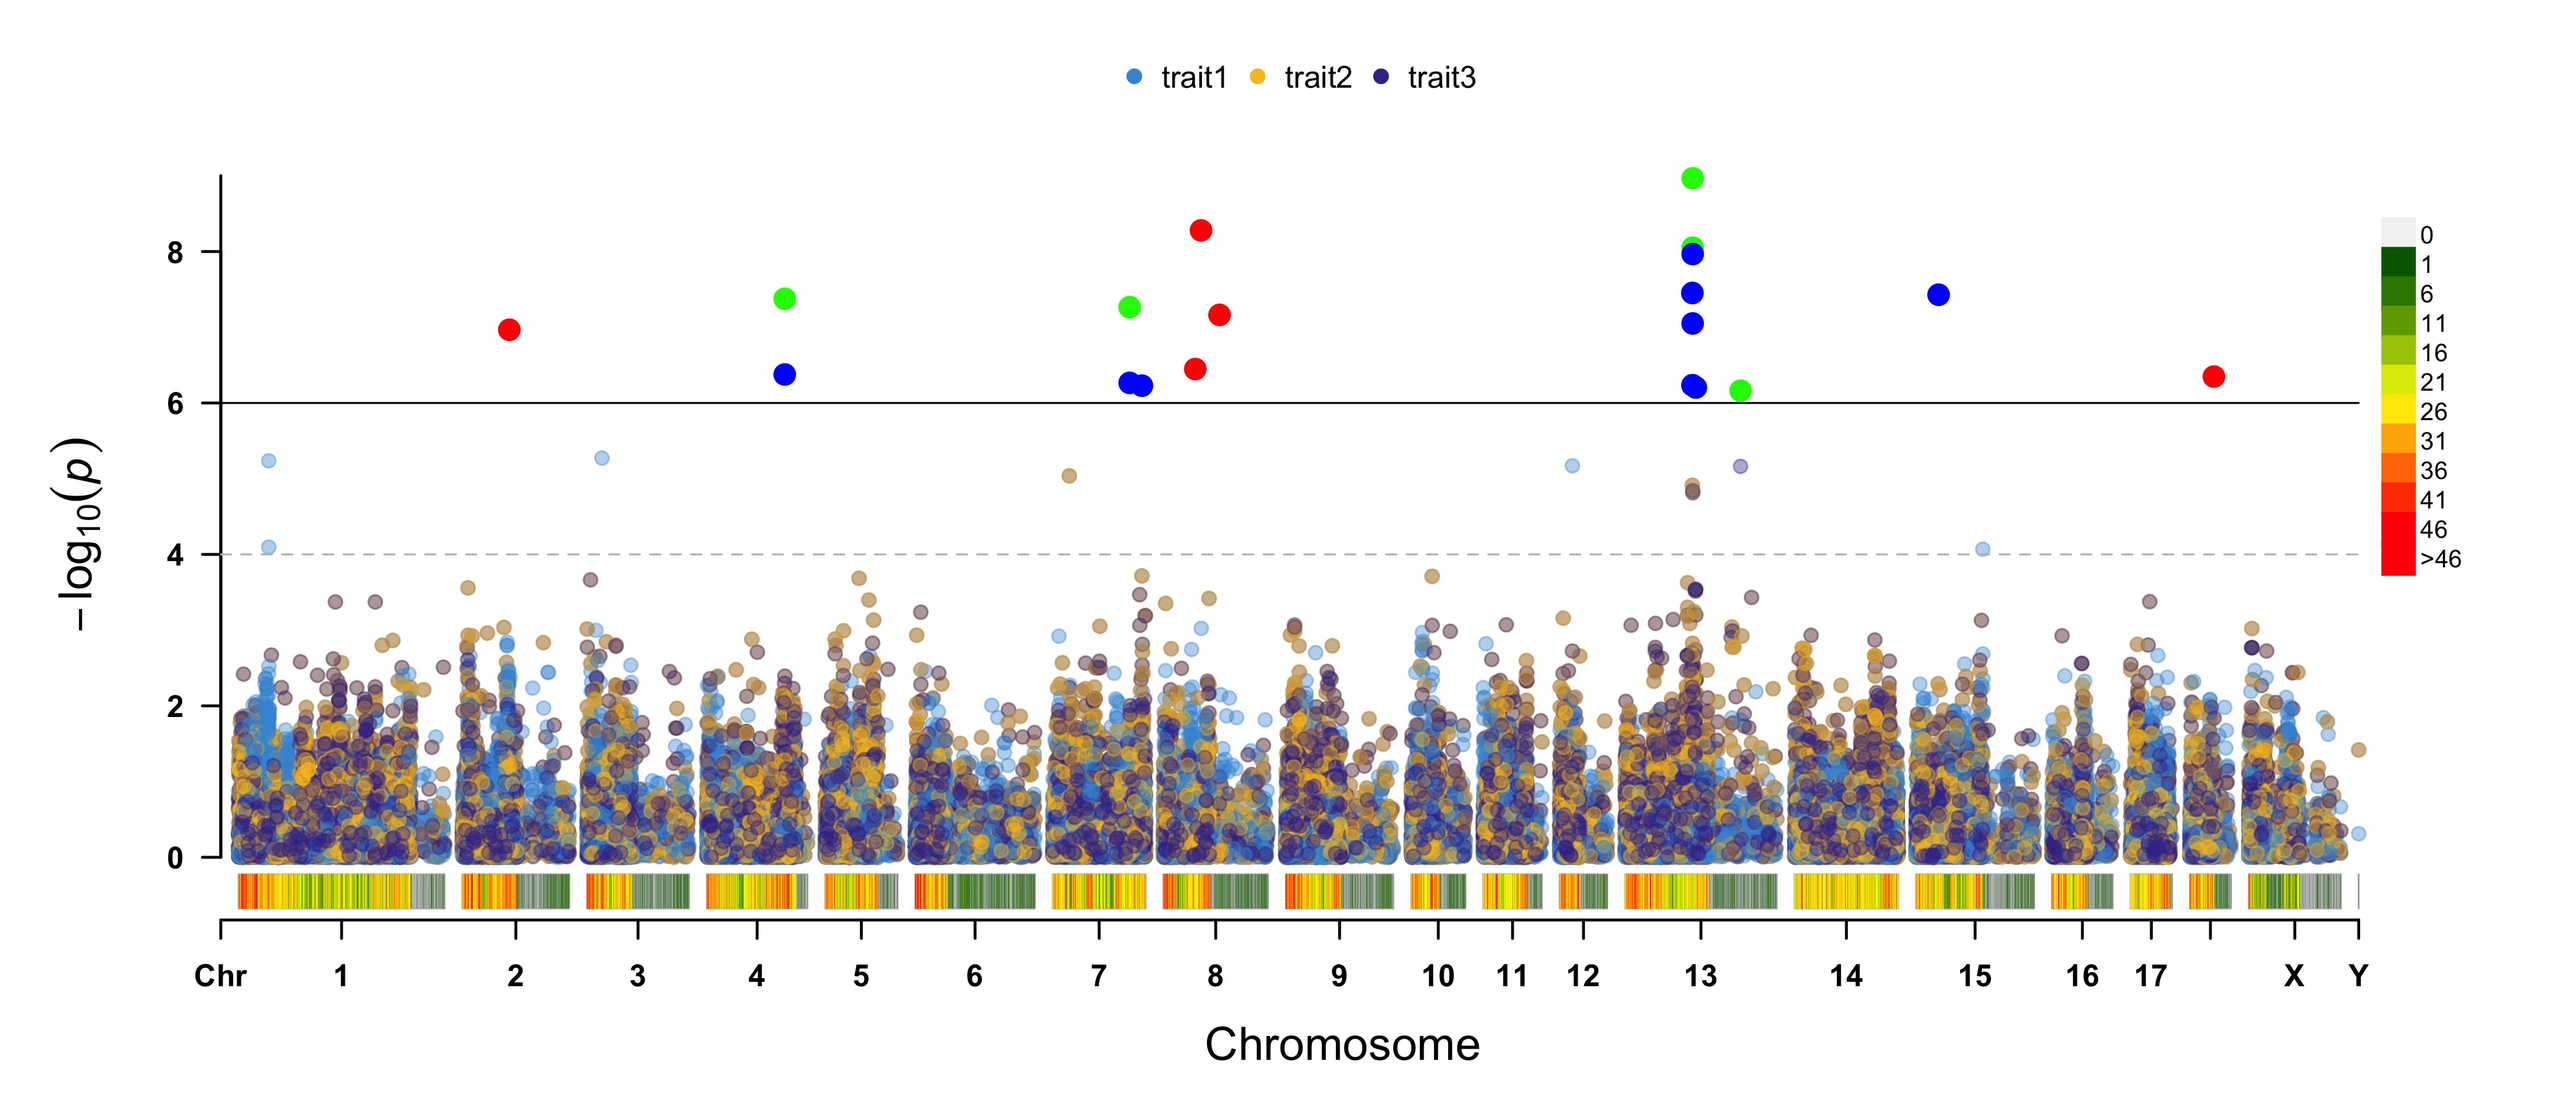
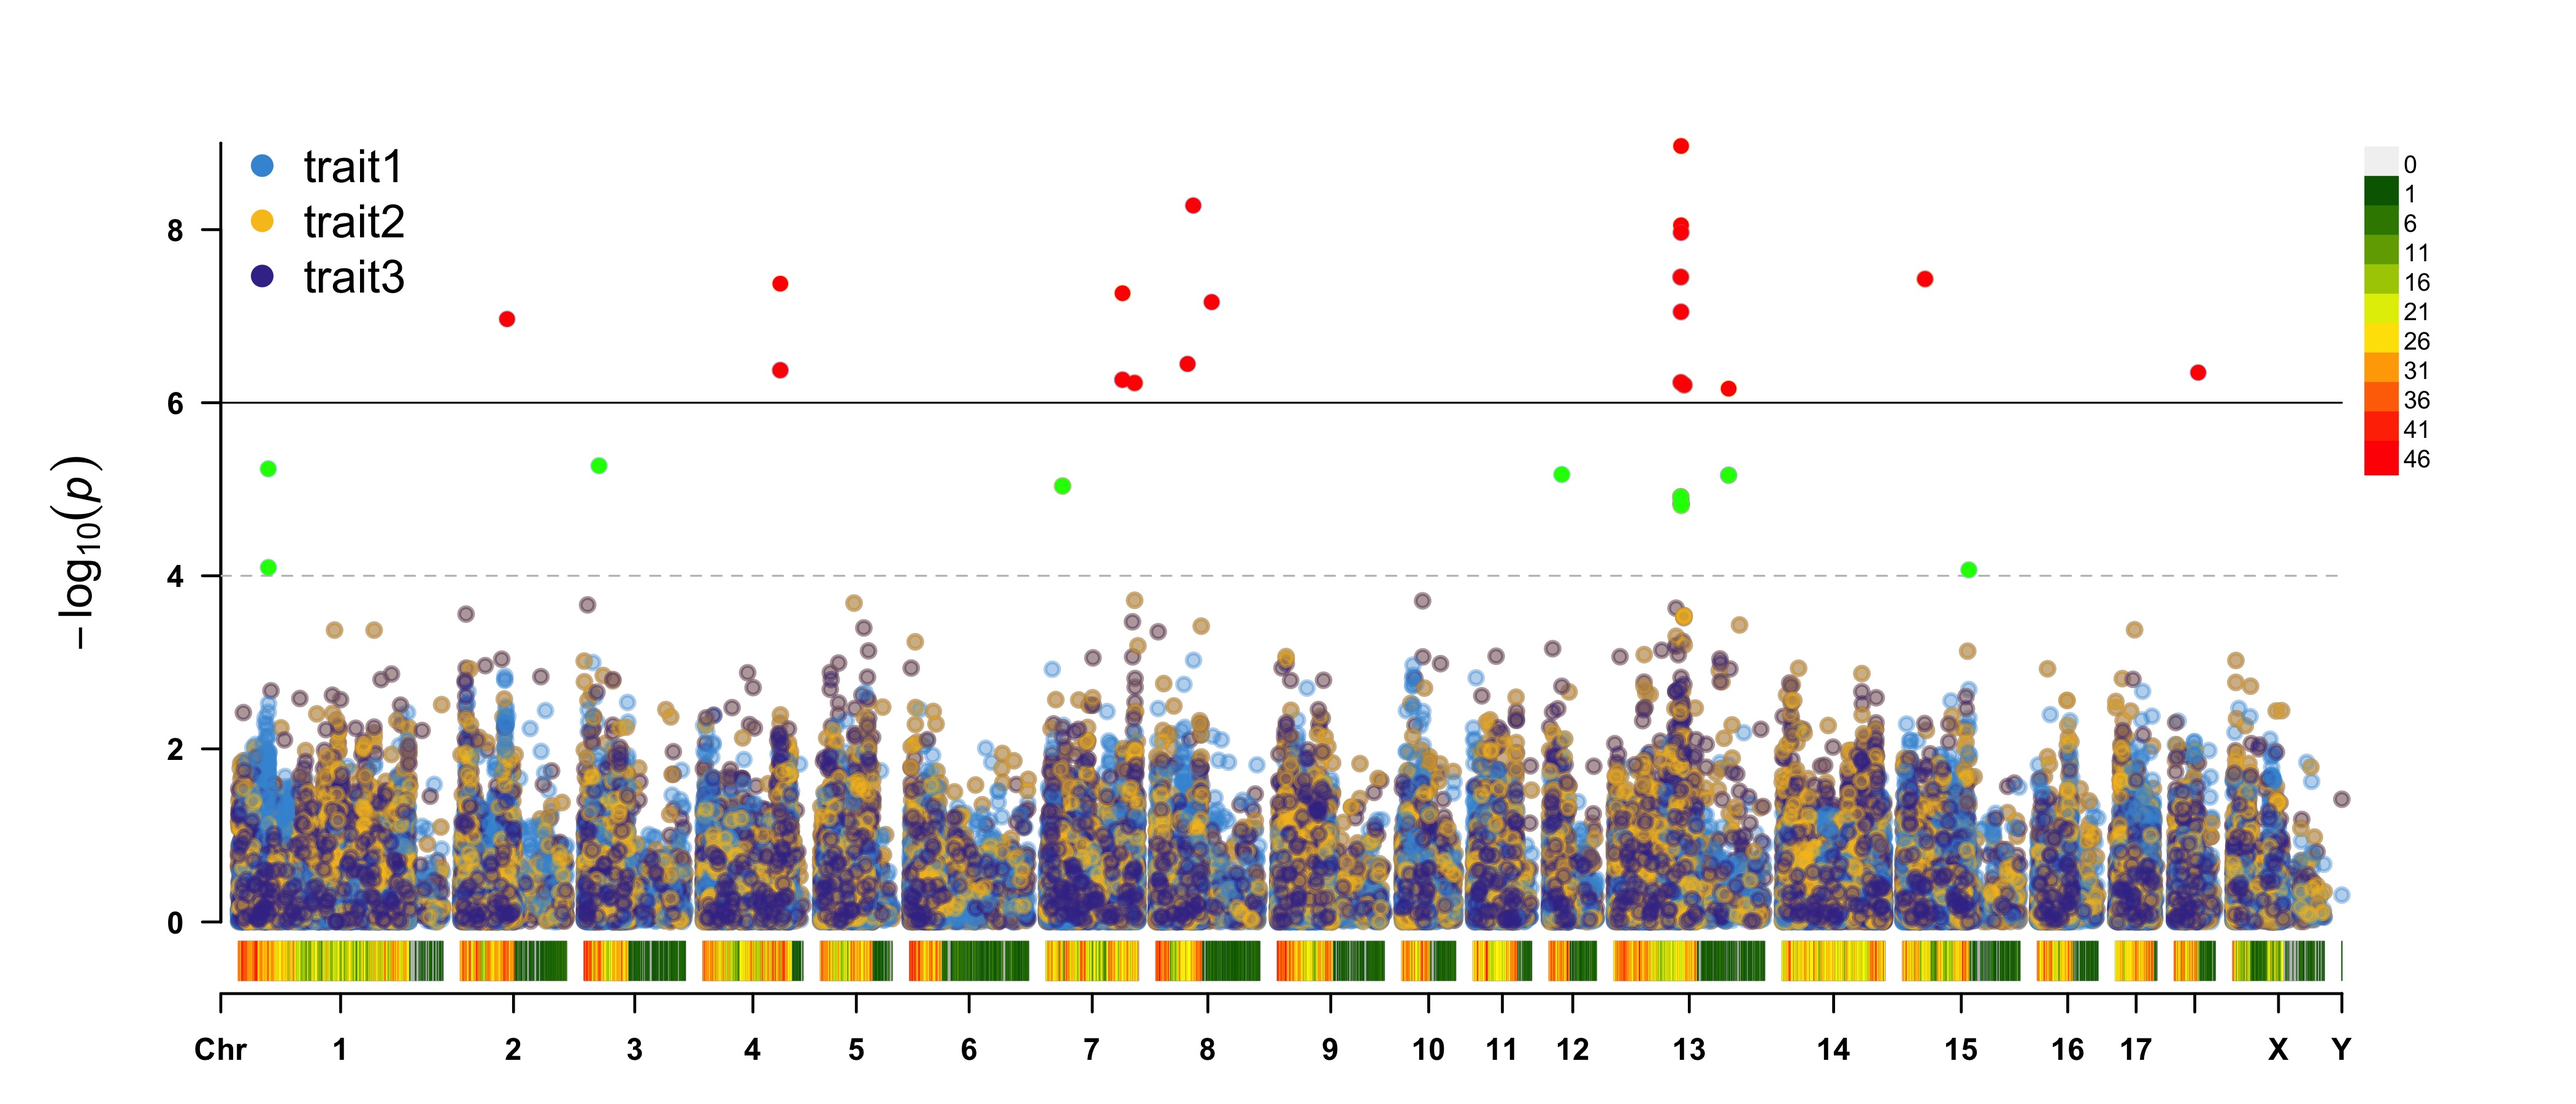
v4.3.0

diff --git a/README.md b/README.md
@@ -1,5 +1,5 @@
 # CMplot 
-[![GitHub issues](https://img.shields.io/github/issues/YinLiLin/R-CMplot?color=green)](https://github.com/YinLiLin/CMplot/issues/new) [![CRAN Version](https://www.r-pkg.org/badges/version/CMplot?color=yellow)](https://CRAN.R-project.org/package=CMplot) [![](https://img.shields.io/badge/GitHub-4.2.0-blueviolet.svg)]() ![](http://cranlogs.r-pkg.org/badges/grand-total/CMplot?color=red) [![](https://cranlogs.r-pkg.org/badges/last-month/CMplot)](https://CRAN.R-project.org/package=CMplot) <a href="https://hits.seeyoufarm.com"/><img src="https://hits.seeyoufarm.com/api/count/incr/badge.svg?url=https%3A%2F%2Fgithub.com%2FYinLiLin%2FCMplot"/></a>
+[![GitHub issues](https://img.shields.io/github/issues/YinLiLin/R-CMplot?color=green)](https://github.com/YinLiLin/CMplot/issues/new) [![CRAN Version](https://www.r-pkg.org/badges/version/CMplot?color=yellow)](https://CRAN.R-project.org/package=CMplot) [![](https://img.shields.io/badge/GitHub-4.3.0-blueviolet.svg)]() ![](http://cranlogs.r-pkg.org/badges/grand-total/CMplot?color=red) [![](https://cranlogs.r-pkg.org/badges/last-month/CMplot)](https://CRAN.R-project.org/package=CMplot) <a href="https://hits.seeyoufarm.com"/><img src="https://hits.seeyoufarm.com/api/count/incr/badge.svg?url=https%3A%2F%2Fgithub.com%2FYinLiLin%2FCMplot"/></a>
 
 ## A high-quality drawing tool designed for Manhattan plot of genomic analysis
 
@@ -256,6 +256,24 @@ Yin, L. et al. [rMVP: A Memory-efficient, Visualization-enhanced, and Parallel-a
 <a href="https://raw.githubusercontent.com/YinLiLin/R-CMplot/master/Figure/2_6_1.jpg">
 <img src="Figure/2_6_1.jpg" height="385px" width="900px">
 </a>
+
+```r
+> SNPs <-  pig60K[
+	pig60K$trait1 < 1e-4 |
+	pig60K$trait2 < 1e-4 |
+	pig60K$trait3 < 1e-4, 1]
+> CMplot(pig60K,type="p",plot.type="m",LOG10=TRUE,highlight=SNPs,highlight.type="l",
+        threshold=1e-4,threshold.col="black",threshold.lty=1,col=c("grey60","#4197d8"),
+        signal.cex=1.2, signal.col="red", highlight.col="grey",highlight.cex=0.7,
+        file="jpg",dpi=300,file.output=TRUE,verbose=TRUE,multracks=TRUE)
+
+```
+
+</p>
+<p align="center">
+<a href="https://raw.githubusercontent.com/YinLiLin/R-CMplot/master/Figure/2_6_2.jpg">
+<img src="Figure/2_6_2.jpg" height="900px" width="640px">
+</a>
 	
 #### Visualize only one chromosome
 
@@ -333,14 +351,14 @@ Yin, L. et al. [rMVP: A Memory-efficient, Visualization-enhanced, and Parallel-a
 ### Multi_tracks Rectangular-Manhattan plot
 
 ```r
-SNPs <- list(
+> SNPs <- list(
 	pig60K$SNP[pig60K$trait1<1e-6],
 	pig60K$SNP[pig60K$trait2<1e-6],
 	pig60K$SNP[pig60K$trait3<1e-6]
 )
-CMplot(pig60K, plot.type="m",multracks=TRUE,threshold=c(1e-6,1e-4),threshold.lty=c(1,2), 
+> CMplot(pig60K, plot.type="m",multracks=TRUE,threshold=c(1e-6,1e-4),threshold.lty=c(1,2), 
         threshold.lwd=c(1,1), threshold.col=c("black","grey"), amplify=TRUE,bin.size=1e6,
-        chr.den.col=c("darkgreen", "yellow", "red"), signal.col=c("red","green","blue"),
+        chr.den.col=c("darkgreen", "yellow", "red"), signal.col=c("red","green"),
         signal.cex=1, file="jpg",memo="",dpi=300,file.output=TRUE,verbose=TRUE,
         highlight=SNPs, highlight.text=SNPs, highlight.text.cex=1.4)
 #Note: if you are not supposed to change the color of signal, 
